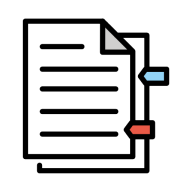
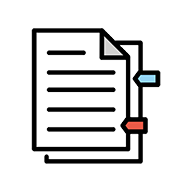
Update

Changed region(s): [[0.0938, 0.0938, 0.9062, 0.9062]]

diff --git a/index.html b/index.html
@@ -60,7 +60,7 @@ h1 {
     position: relative;
     isolation: isolate;
     width: fit-content;
-    margin: 26px 0 12px 1em;
+    margin: 26px 0 12px 3em;
     padding: 12px 18px;
     font-family: var(--font-title);
     font-size: 18px;
@@ -514,7 +514,7 @@ footer {
 
 <div class="page-width">
     <h1><b>⊹˚. 📑 留己看 ˖ ࣪⊹</b></h1>
-    <div class="sub-title"><h4>🔖我總有一天會回來看的！</h4></div>
+    <div class="sub-title"><h4>……會記得回來看的啦！</h4></div><hr>
     <input id="search-box" type="search" placeholder="🔍搜尋標題、備註、網址……">
     <nav id="folder-tabs"></nav>
     <div id="folder-actions"></div>
